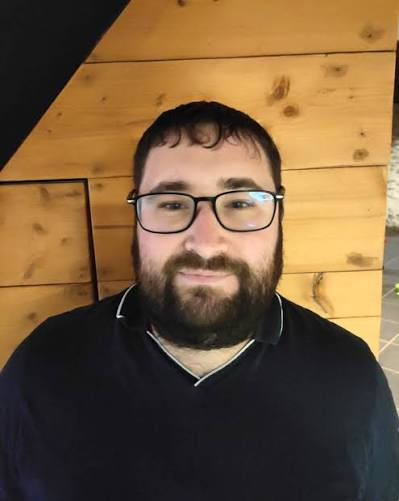
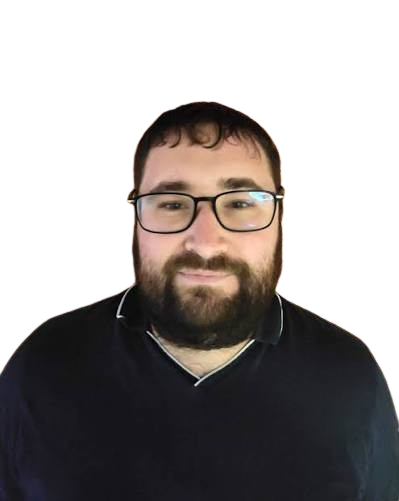
Remove backround + change ennemy size

diff --git a/src/enemy.rs b/src/enemy.rs
@@ -28,7 +28,7 @@ fn apply_spawn_cmds(
     let Ok(rx) = rx.0.lock() else { return };
 
     let image: Handle<Image> = asset_server.load("enemy.png");
-
+    const ENEMY_SIZE: f32 = 90.0;
     for _ in 0..20 {
         let Ok(cmd) = rx.try_recv() else { break };
         let offset = Vec2::from_angle(cmd.angle) * 700.0;
@@ -36,10 +36,10 @@ fn apply_spawn_cmds(
             Enemy,
             Health(cmd.health),
             Speed(80.0),
-            Radius(14.0), // à ajuster à la taille affichée
+            Radius(ENEMY_SIZE), // à ajuster à la taille affichée
             Sprite {
                 image: image.clone(),
-                custom_size: Some(Vec2::splat(32.0)),
+                custom_size: Some(Vec2::splat(ENEMY_SIZE)),
                 ..default()
             },
             Transform::from_translation(player_tf.translation + offset.extend(0.0)),

diff --git a/src/collision.rs b/src/collision.rs
@@ -25,7 +25,6 @@ fn projectile_hits(
     mut enemies: Query<(Entity, &Transform, &Radius, &mut Health), With<Enemy>>,
 ) {
     // Double boucle : suffisant pour quelques centaines d'entités.
-    // TODO (si ça rame) : grille spatiale.
     for (p_entity, p_tf, p_r, proj) in &projectiles {
         for (e_entity, e_tf, e_r, mut hp) in &mut enemies {
             if hp.0 <= 0.0 {
